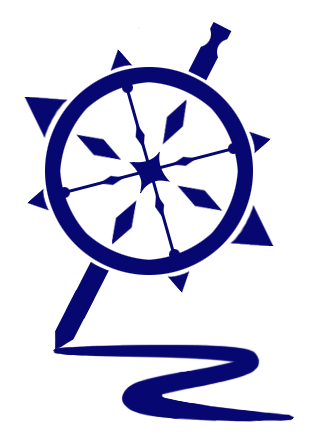
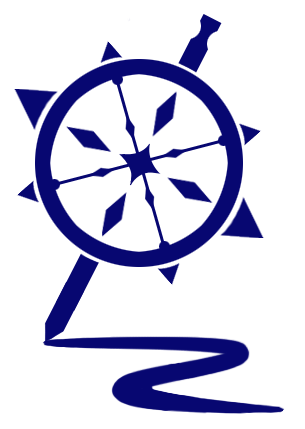
Comment to discussion, misc fixes

Changed region(s): [[0.059, 0.0303, 0.9443, 0.9697]]

diff --git a/templates/ratings/user/user_detail.html b/templates/ratings/user/user_detail.html
@@ -6,7 +6,7 @@
 	<div id="userProfile">
 		<div class="userDetails" style="width:600px;float:left;">
 			<h1>{{user}}'s Profile</h1>
-			<h3>{{user}} traits</h3>
+			<h3>{{user}}'s traits</h3>
 			<div style="margin:5px 20px;">
 				{% if checkon == user %}
 					<form class="ui-big-widget" action="/ratings/user_traits/" method="post" >{% csrf_token %}
@@ -37,7 +37,7 @@
 			<p><a href="/ratings/add_trait/" style="font-size:10px"><p >Think we're missing a trait?</p></a>
 		</div>
 		
-		<div class="userDetails" style="min-height:200px;float:right;">
+		<div class="userDetails">
 			<h2>{{user}}'s Sorts</h2>
 			{% include 'ratings/sorts.html' %}
 		</div>
@@ -54,6 +54,8 @@
 				</td></tr></table>
 				<br>
 			{% endfor %}
+			
+			<br>Apply Community
 			<form name="subscribeUser" action="." method="post">
 				<select name="comm" class="ui-widget">
 				{% for comm in communities %}
@@ -62,7 +64,7 @@
 				</select>
 				<input type="submit" value="+"/>
 			</form>
-			<p><a href="/ratings/add_community/" style="font-size:10px"><p >Think we're missing a community?</p></a>	
+			<a href="/ratings/add_community/" style="font-size:10px">Think we're missing a community?</a>	
 		</div>
 		
 		<div class="userDetails">
@@ -79,10 +81,10 @@
 					<a href="/ratings/{{ item.business.id }}/"> <img src="{{ item.business.photourl }}" /> </a>Rated <a href="/ratings/{{ item.business.id }}/"> {{item.business}} </a> with {{item.rating}}
 				{%endif%}
 				{% if item.type == "buscomment" %}				
-					<a href="/ratings/{{ item.business.id }}/"> <img src="{{ item.business.photourl }}" /> </a> Comment on <a href="/ratings/{{ item.business.id }}/"> {{item.business}} </a>: <i>{{item.thread.descr}}</i> 
+					<a href="/ratings/{{ item.business.id }}/"> <img src="{{ item.business.photourl }}" /> </a> Discussion of <a href="/ratings/{{ item.business.id }}/"> {{item.business}} </a>: <i>{{item.thread.descr}}</i> 
 				{%endif%}
 				{% if item.type == "tagcomment" %}				
-					Comment on <a href="/ratings/{{ item.business.id }}/"> </a>under {{item.tag.name}}: <i>{{item.thread.descr}}</i> 
+					Discussion of <a href="/ratings/{{ item.business.id }}/"> </a>under {{item.tag.name}}: <i>{{item.thread.descr}}</i> 
 				{%endif%}
 				<hr>
 			{% endfor %}

diff --git a/templates/ratings/discussion/thread.html b/templates/ratings/discussion/thread.html
@@ -1,10 +1,10 @@
-<h2>Comments</h2>
+<h2>Discussions</h2>
 
-<p style="font-size:14px"  onclick="showAddReply('')">Click to Add a Comment</p>
+<p style="font-size:14px"  onclick="showAddReply('')">Click to start a discussion</p>
 <div id="commentDiv" style="display:none;">
 	<form action="." name="addTagComment" class="comment" id="comment_form" method="post">
-		<textarea name="comment" class="replybox" id="comment" placeholder="Reply"/></textarea>
-		<input type="submit" class="ui-widget buttonme" value="Reply"></p>
+		<textarea name="comment" class="replybox" id="comment" placeholder="Start a discussion"/></textarea>
+		<input type="submit" class="ui-widget buttonme" value="Post"></p>
 		<input type="hidden" name="bid" value="{{business.id}}"/>
 		{%if tag %}
 			<input type="hidden" name="tid" value="{{tag.id}}"/>

diff --git a/css/header_footer.css b/css/header_footer.css
@@ -31,16 +31,16 @@ body
 #icon
 {
     background-color: #317BE2;
-    padding-left: 12px;
-    padding-top: 12px;
-    width: 150px;
-    height: 150px;
+    padding-left: 17px;
+    padding-top: 17px;
+    width: 160px;
+    height: 160px;
     position: absolute;
-    top: 20px;
+    top: 23px;
     left: 50%;
     margin-left: -610px;
-    -moz-border-radius: 90px;
-    border-radius: 90px;
+    -moz-border-radius: 95px;
+    border-radius: 95px;
     z-index: 1000;
 }
 
@@ -142,6 +142,7 @@ body
 #dropdown li:hover ul li a:hover
 {
 	background:#DDDDDD;
+	text-decoration: none;
 }
 
 #search

diff --git a/templates/ratings/discussion/wikipages.html b/templates/ratings/discussion/wikipages.html
@@ -9,7 +9,11 @@
 				<p>This page does not exist, <a href="edit/">create it now</a>?</p>
 				{% endif %}
 				
-				{{ page.rendered|safe|linebreaks }}
+				{% if page.rendered %}
+					{{ page.rendered|safe|linebreaks }}
+				{% else %}
+					<p><em><font color="#999999">No description, click to add.</font></em></p>
+				{% endif %}
 				
 				<!--{% if page.id %}
 				<a href="edit/{{page.id}}/">Discuss / edit this tag</a>

diff --git a/templates/ratings/discussion/wikiedit.html b/templates/ratings/discussion/wikiedit.html
@@ -1,6 +1,6 @@
 <h3>Describe {{business.name}} for {{page.name}}</h3>
 
-<form action="/ratings/{{business.id}}/edit/{{page.id}}/#discussion" method="post">
+<form action="/ratings/{{business.id}}/edit/{{page.id}}/#discuss" method="post">
 	{% csrf_token %}
 
 	<div class="field_wrapper required{% if form.content.errors %} errors{% endif %}" id="field_content">

diff --git a/css/detail.css b/css/detail.css
@@ -53,10 +53,9 @@
     border: 1px solid #070771;
     -moz-border-radius: 20px;
     border-radius: 20px;
-    float: left;
-    margin: 10px;
+    display: inline-block;
+    vertical-align: top;
+    margin: 20px;
     padding: 5px;
-    width: 200px;
-    height: 200px;
-    overflow: hidden;
+    width: 250px;
 }

diff --git a/templates/base.html b/templates/base.html
@@ -62,7 +62,7 @@ function setupPage()
 	</div>
 	
 	<div id="icon">
-		<a href="/"><img src="{{STATIC_URL}}css/images/logo.png" width="420" height="140"></a>
+		<a href="/"><img src="{{STATIC_URL}}css/images/logo.png" width="401" height="125"></a>
 	</div>
 	
 	<div id="header">

diff --git a/css/main.css b/css/main.css
@@ -23,7 +23,7 @@ a:link
 a:hover
 {
     color: #4679ED;
-    text-decoration: underline;
+    text-decoration: none;
 }
 
 a:visited
